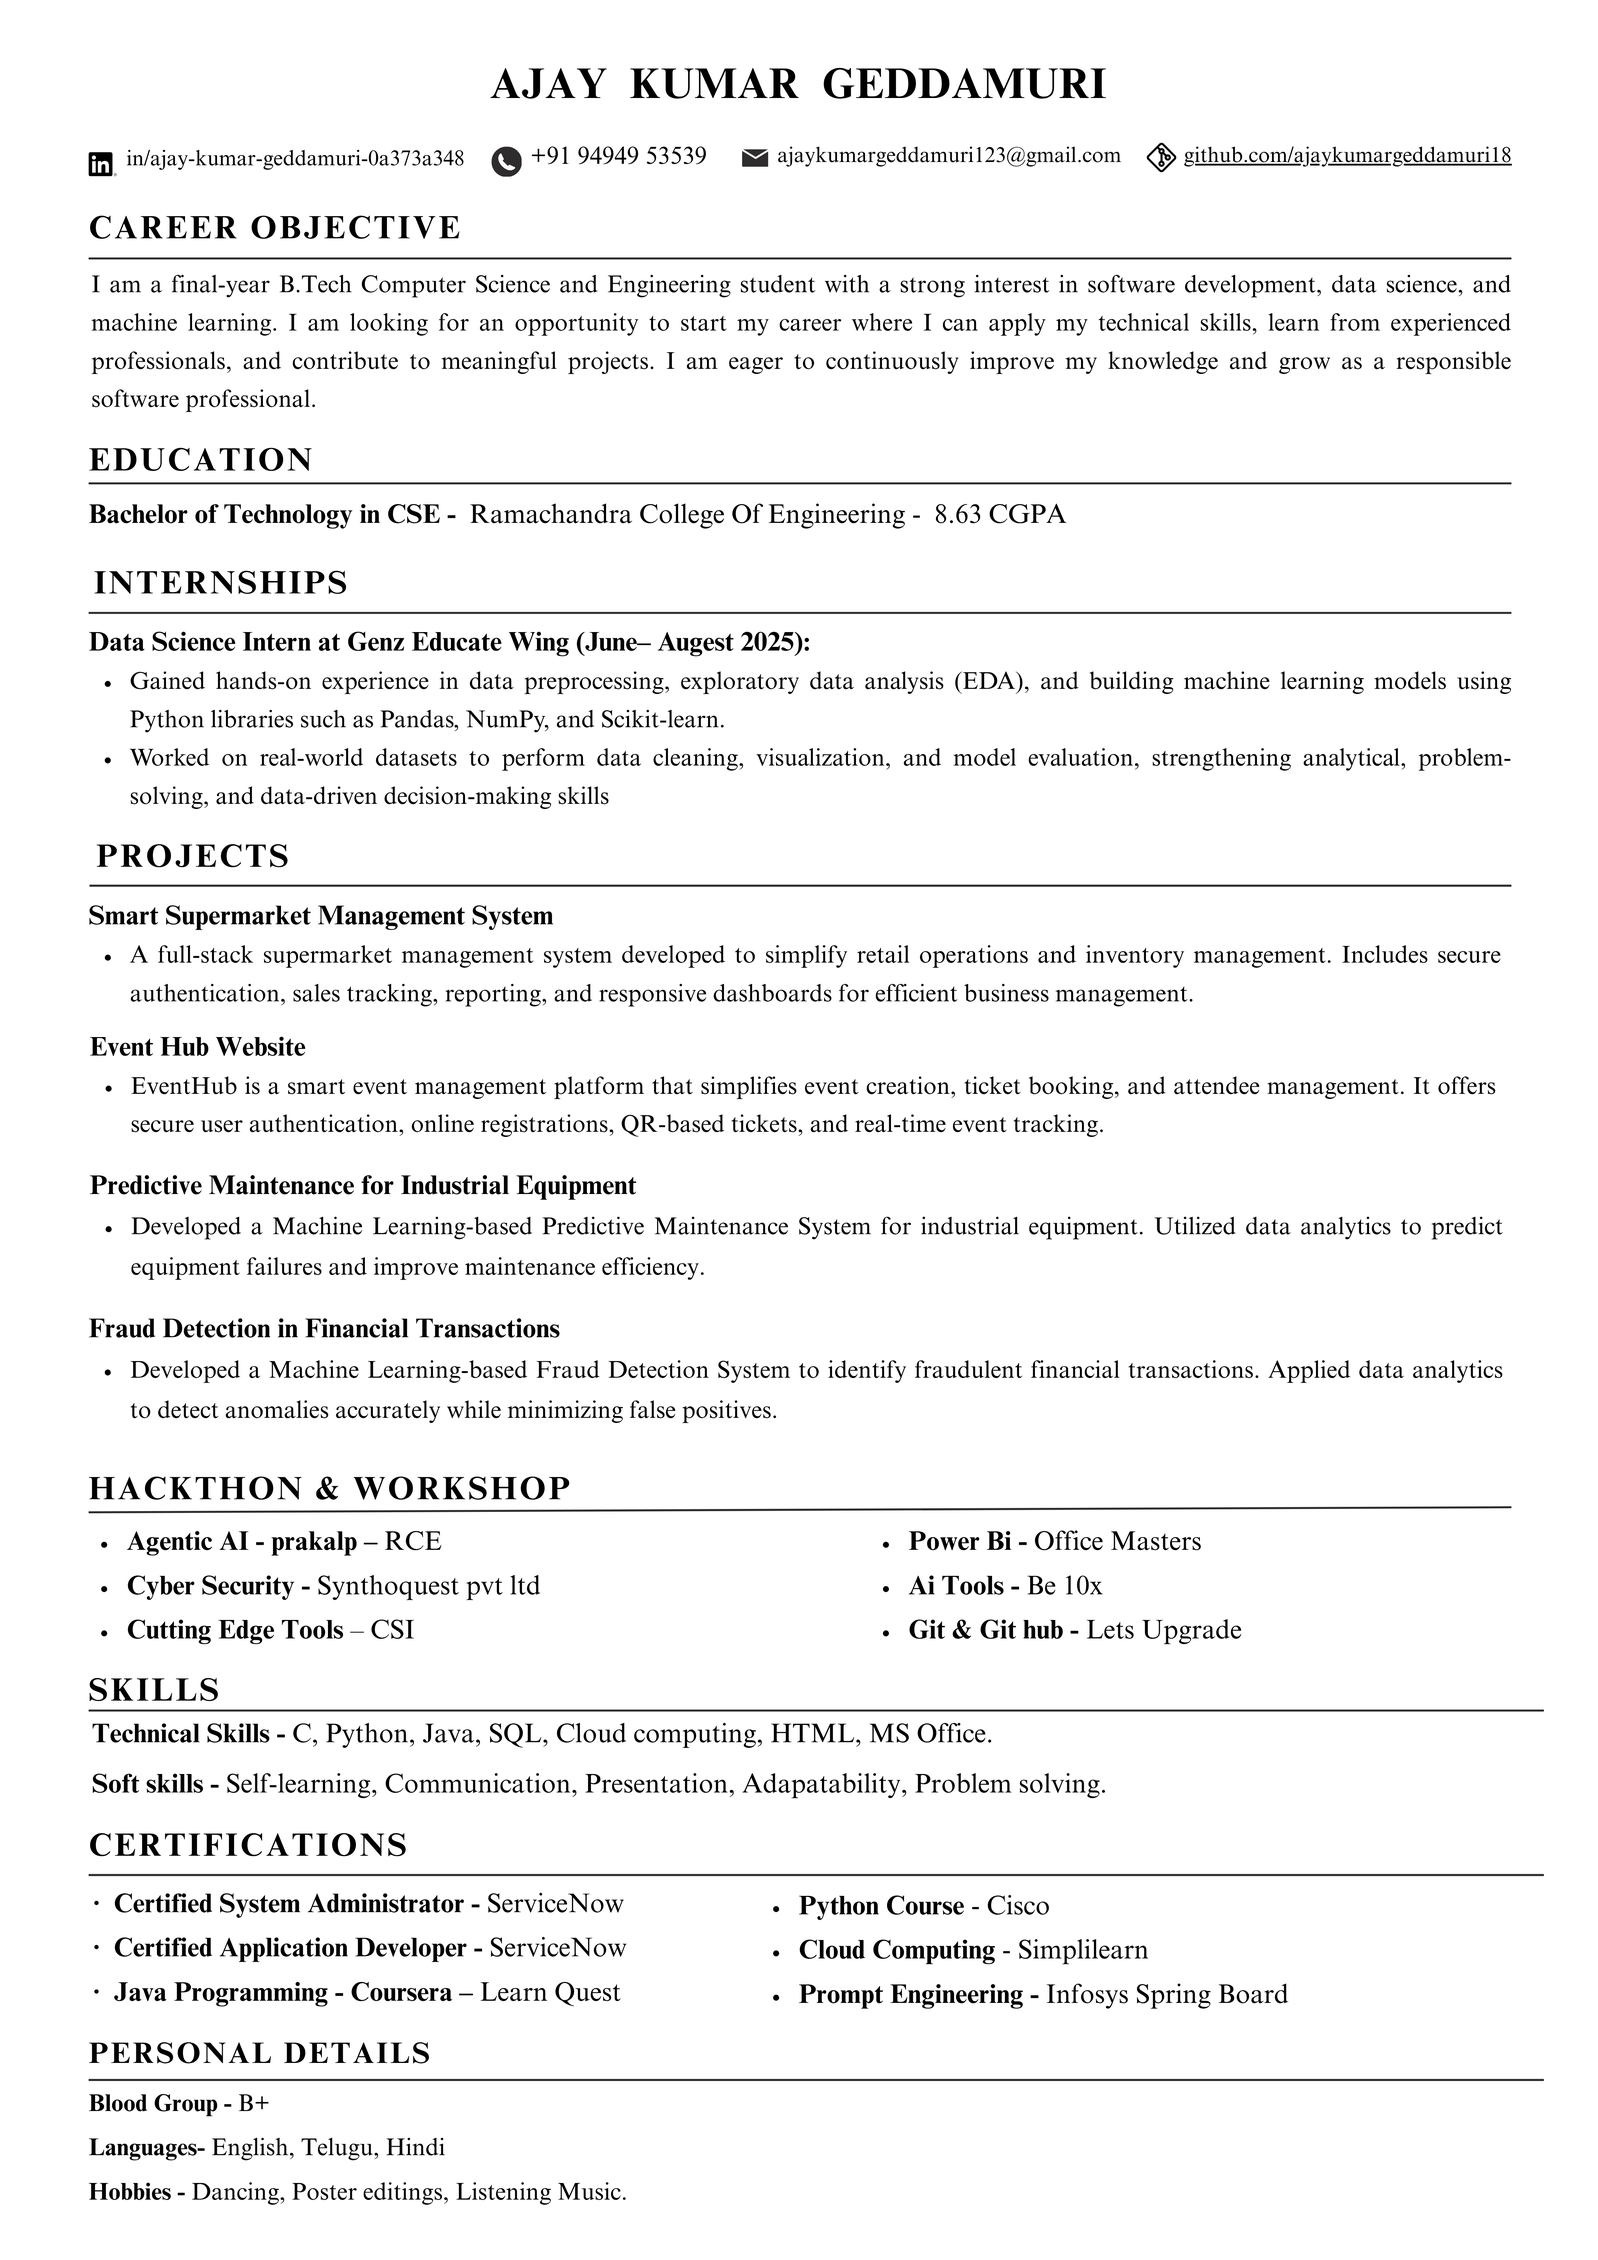
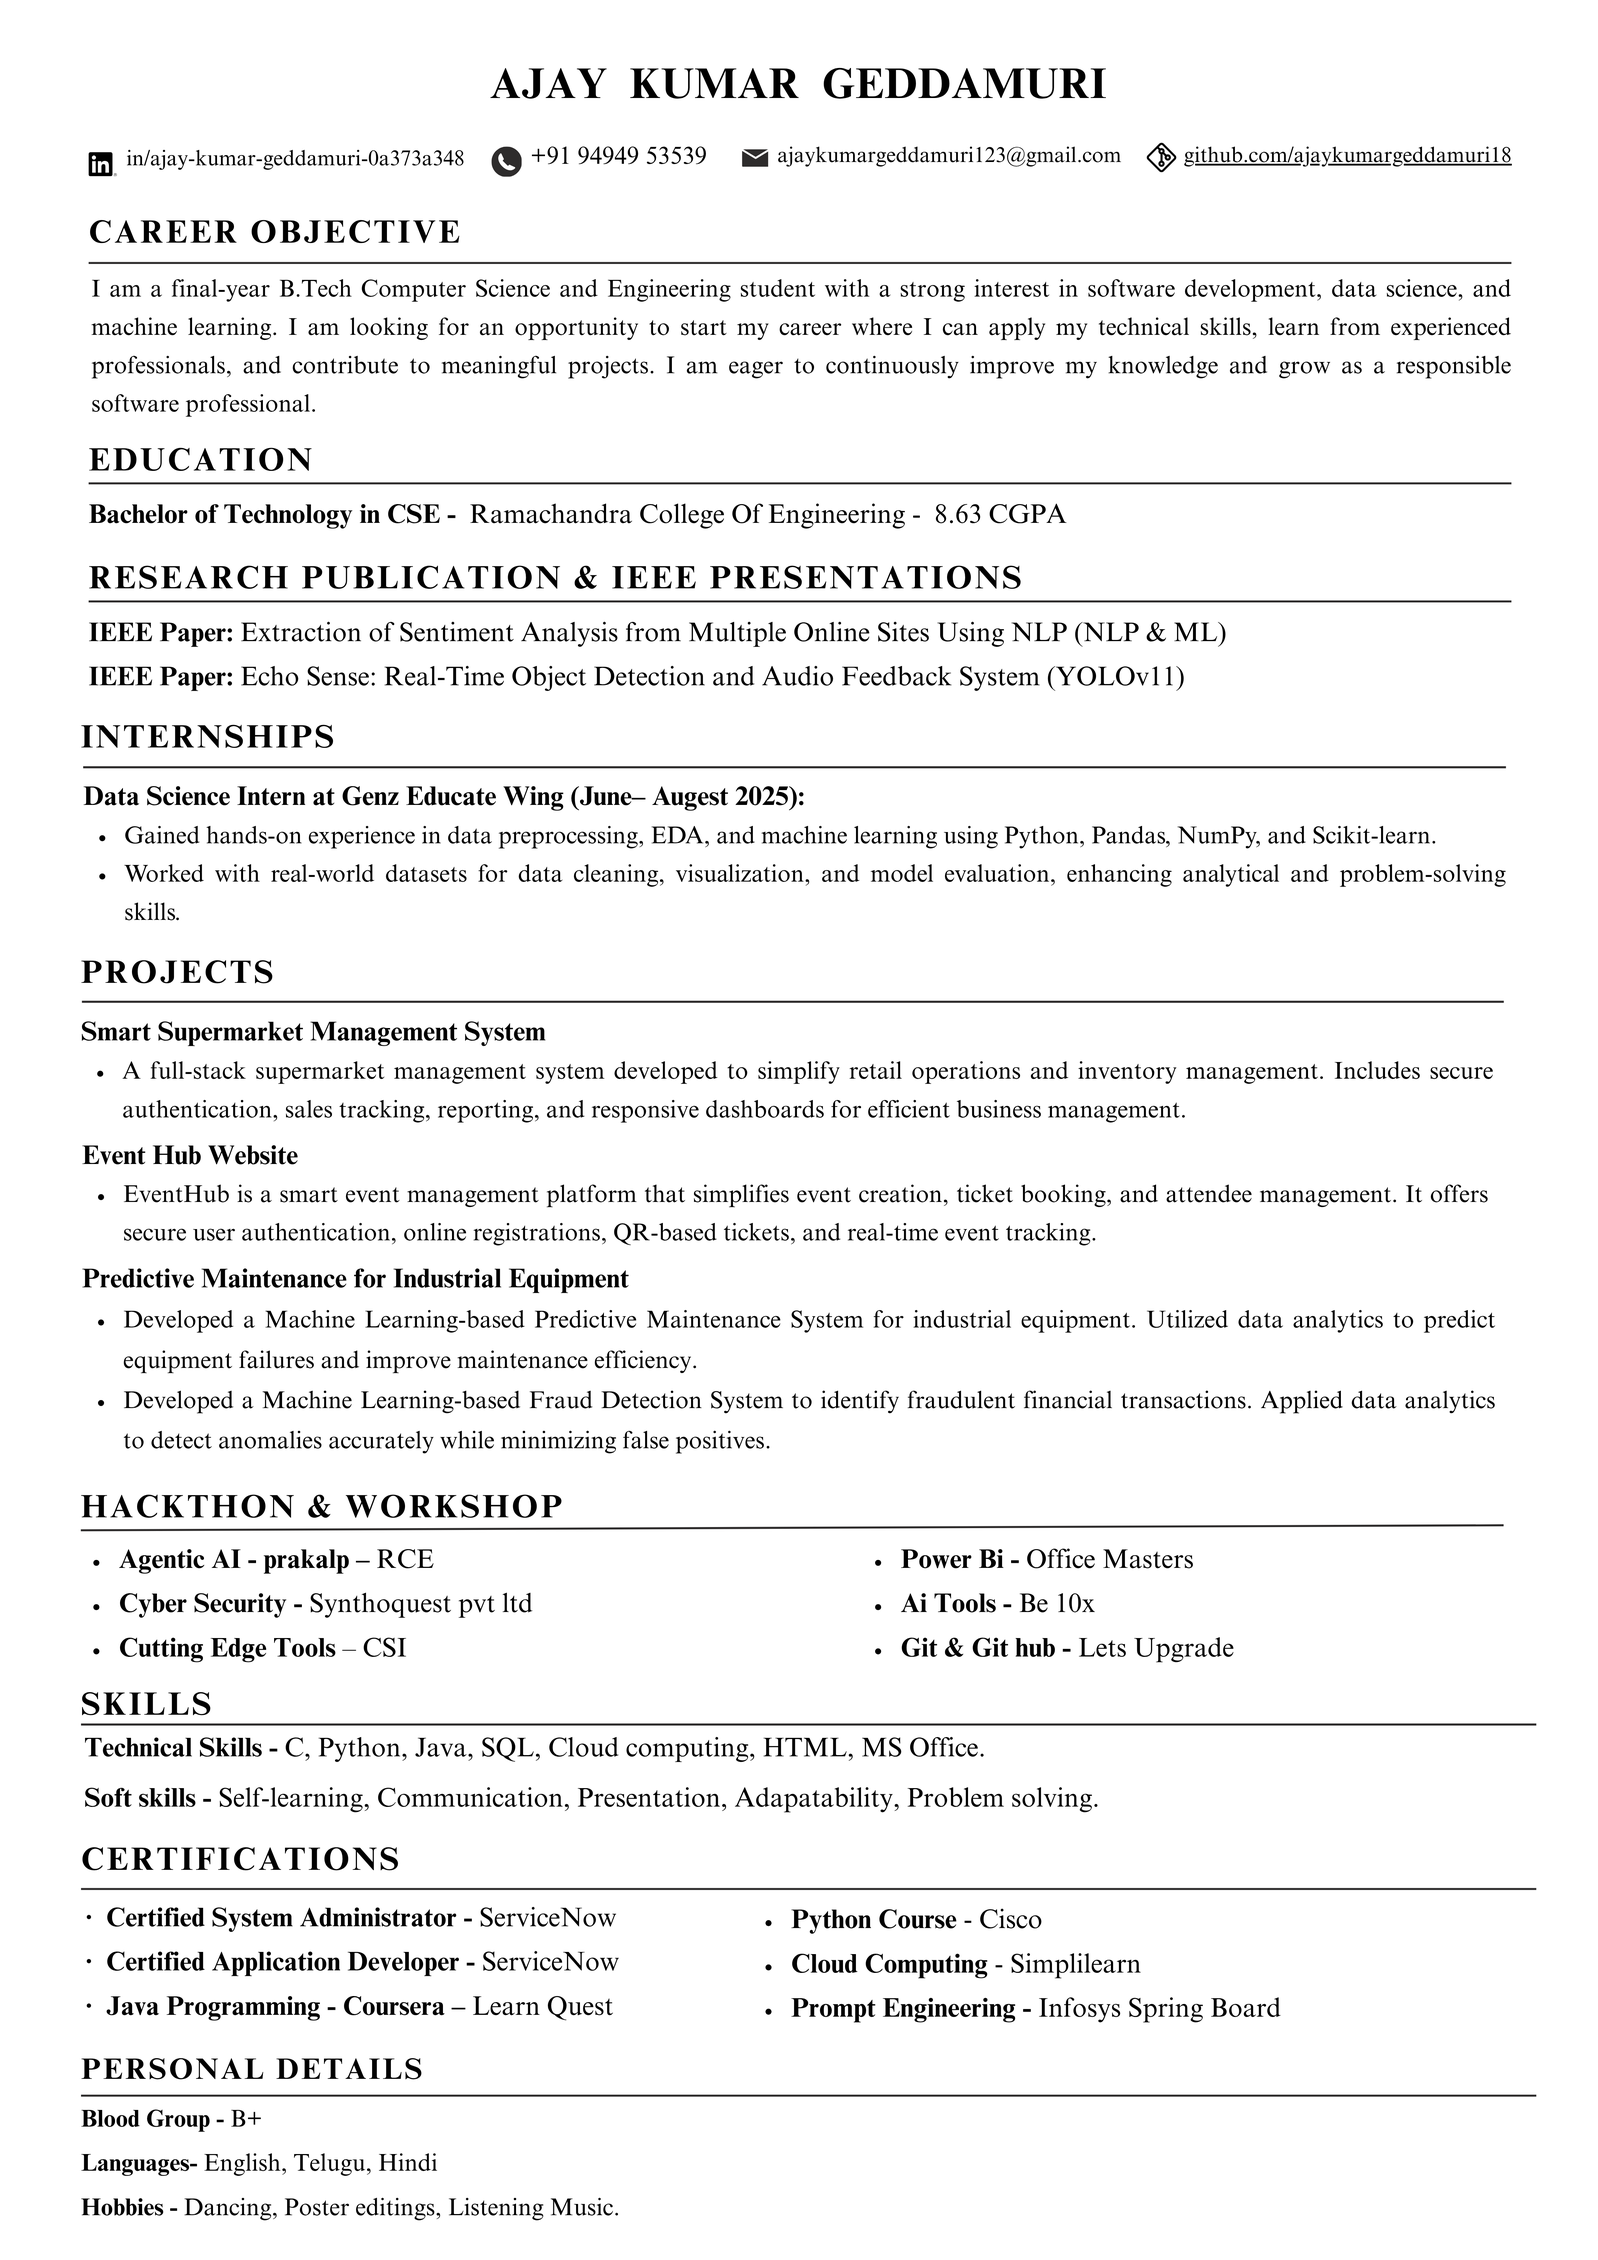
Link updated resume (Ajay_Resume.png) and IEEE Conference Certificate (336.png) with interactive modal viewer

diff --git a/script.js b/script.js
@@ -4,6 +4,17 @@
    ========================================================================== */
 
 const certificatesData = {
+  ieee_conference: {
+    title: "IEEE International Research Conference Certificate",
+    issuer: "1st International IEEE Conference Panel",
+    badgeIcon: "fa-solid fa-award",
+    date: "2025",
+    type: "Machine Learning & Predictive Modeling Paper Presentation",
+    details: "Official IEEE conference certification (336.png) awarded for presenting the research paper on Machine Learning algorithms, exploratory telemetry data analytics, and industrial anomaly detection.",
+    verifyId: "IEEE-CONF-2025-336",
+    pdfUrl: "/static/assets/336.png",
+    imageUrl: "/static/assets/336.png"
+  },
   servicenow_sysadmin: {
     title: "Certified System Administrator (CSA)",
     issuer: "ServiceNow",
@@ -80,15 +91,24 @@ window.openCertModal = function(key) {
     document.getElementById('cert-modal-title').textContent = cert.title;
     document.getElementById('cert-modal-issuer').textContent = `${cert.issuer} • ${cert.type}`;
 
-    const pdfButton = cert.pdfUrl ? `
-      <a href="${cert.pdfUrl}" target="_blank" rel="noopener noreferrer" class="btn btn-primary btn-sm" style="margin-right: 0.5rem; text-decoration: none;">
-        <i class="fa-solid fa-file-pdf"></i> Open Official Certificate PDF
+    const isImage = cert.imageUrl || (cert.pdfUrl && (cert.pdfUrl.endsWith('.png') || cert.pdfUrl.endsWith('.jpg')));
+    const actionUrl = cert.imageUrl || cert.pdfUrl;
+
+    const mediaButton = actionUrl ? `
+      <a href="${actionUrl}" target="_blank" rel="noopener noreferrer" class="btn btn-primary btn-sm" style="margin-right: 0.5rem; text-decoration: none;">
+        <i class="fa-solid ${isImage ? 'fa-image' : 'fa-file-pdf'}"></i> Open Official Certificate ${isImage ? 'Image' : 'PDF'}
       </a>
     ` : '';
 
+    const imagePreview = isImage ? `
+      <div style="background: #000; border-radius: var(--radius-md); overflow: hidden; border: 1px solid var(--border-glass); margin-bottom: 1.25rem; max-height: 380px; overflow-y: auto;">
+        <img src="${actionUrl}" alt="${cert.title}" style="width: 100%; display: block; object-fit: contain;">
+      </div>
+    ` : '';
+
     const bodyHtml = `
-      <div style="text-align: center; margin-bottom: 1.5rem;">
-        <div style="width: 80px; height: 80px; border-radius: 50%; background: rgba(0, 242, 254, 0.15); color: var(--cyan-electric); display: flex; align-items: center; justify-content: center; font-size: 2.5rem; margin: 0 auto 1rem auto; box-shadow: 0 0 25px rgba(0, 242, 254, 0.3);">
+      <div style="text-align: center; margin-bottom: 1.25rem;">
+        <div style="width: 70px; height: 70px; border-radius: 50%; background: rgba(0, 242, 254, 0.15); color: var(--cyan-electric); display: flex; align-items: center; justify-content: center; font-size: 2.2rem; margin: 0 auto 0.75rem auto; box-shadow: 0 0 25px rgba(0, 242, 254, 0.3);">
           <i class="${cert.badgeIcon}"></i>
         </div>
         <div style="font-size: 0.85rem; color: var(--emerald-neon); font-weight: 600; text-transform: uppercase; letter-spacing: 1px;">
@@ -96,18 +116,20 @@ window.openCertModal = function(key) {
         </div>
       </div>
 
-      <div style="background: var(--bg-surface); border: 1px solid var(--border-glass); border-radius: var(--radius-md); padding: 1.5rem; margin-bottom: 1.5rem;">
+      ${imagePreview}
+
+      <div style="background: var(--bg-surface); border: 1px solid var(--border-glass); border-radius: var(--radius-md); padding: 1.25rem; margin-bottom: 1.25rem;">
         <h4 style="font-size: 0.95rem; color: var(--text-main); margin-bottom: 0.5rem;">Credential Scope & Competencies:</h4>
-        <p style="font-size: 0.925rem; color: var(--text-muted); line-height: 1.6; margin-bottom: 1rem;">${cert.details}</p>
+        <p style="font-size: 0.9rem; color: var(--text-muted); line-height: 1.6; margin-bottom: 0.85rem;">${cert.details}</p>
         
-        <div style="display: flex; align-items: center; justify-content: space-between; padding-top: 0.75rem; border-top: 1px solid var(--border-glass); font-size: 0.85rem;">
+        <div style="display: flex; align-items: center; justify-content: space-between; padding-top: 0.75rem; border-top: 1px solid var(--border-glass); font-size: 0.825rem;">
           <span style="color: var(--text-subtle);">Credential ID: <strong style="color: var(--text-main);">${cert.verifyId}</strong></span>
           <span style="color: var(--text-subtle);">Issued: <strong style="color: var(--text-main);">${cert.date}</strong></span>
         </div>
       </div>
 
       <div style="text-align: center; display: flex; align-items: center; justify-content: center; gap: 0.5rem; flex-wrap: wrap;">
-        ${pdfButton}
+        ${mediaButton}
         <button class="btn btn-secondary btn-sm" onclick="showToast('Credential verification confirmed!')">
           <i class="fa-solid fa-shield-halved"></i> Verify Credential Status
         </button>

diff --git a/static/script.js b/static/script.js
@@ -4,6 +4,17 @@
    ========================================================================== */
 
 const certificatesData = {
+  ieee_conference: {
+    title: "IEEE International Research Conference Certificate",
+    issuer: "1st International IEEE Conference Panel",
+    badgeIcon: "fa-solid fa-award",
+    date: "2025",
+    type: "Machine Learning & Predictive Modeling Paper Presentation",
+    details: "Official IEEE conference certification (336.png) awarded for presenting the research paper on Machine Learning algorithms, exploratory telemetry data analytics, and industrial anomaly detection.",
+    verifyId: "IEEE-CONF-2025-336",
+    pdfUrl: "/static/assets/336.png",
+    imageUrl: "/static/assets/336.png"
+  },
   servicenow_sysadmin: {
     title: "Certified System Administrator (CSA)",
     issuer: "ServiceNow",
@@ -80,15 +91,24 @@ window.openCertModal = function(key) {
     document.getElementById('cert-modal-title').textContent = cert.title;
     document.getElementById('cert-modal-issuer').textContent = `${cert.issuer} • ${cert.type}`;
 
-    const pdfButton = cert.pdfUrl ? `
-      <a href="${cert.pdfUrl}" target="_blank" rel="noopener noreferrer" class="btn btn-primary btn-sm" style="margin-right: 0.5rem; text-decoration: none;">
-        <i class="fa-solid fa-file-pdf"></i> Open Official Certificate PDF
+    const isImage = cert.imageUrl || (cert.pdfUrl && (cert.pdfUrl.endsWith('.png') || cert.pdfUrl.endsWith('.jpg')));
+    const actionUrl = cert.imageUrl || cert.pdfUrl;
+
+    const mediaButton = actionUrl ? `
+      <a href="${actionUrl}" target="_blank" rel="noopener noreferrer" class="btn btn-primary btn-sm" style="margin-right: 0.5rem; text-decoration: none;">
+        <i class="fa-solid ${isImage ? 'fa-image' : 'fa-file-pdf'}"></i> Open Official Certificate ${isImage ? 'Image' : 'PDF'}
       </a>
     ` : '';
 
+    const imagePreview = isImage ? `
+      <div style="background: #000; border-radius: var(--radius-md); overflow: hidden; border: 1px solid var(--border-glass); margin-bottom: 1.25rem; max-height: 380px; overflow-y: auto;">
+        <img src="${actionUrl}" alt="${cert.title}" style="width: 100%; display: block; object-fit: contain;">
+      </div>
+    ` : '';
+
     const bodyHtml = `
-      <div style="text-align: center; margin-bottom: 1.5rem;">
-        <div style="width: 80px; height: 80px; border-radius: 50%; background: rgba(0, 242, 254, 0.15); color: var(--cyan-electric); display: flex; align-items: center; justify-content: center; font-size: 2.5rem; margin: 0 auto 1rem auto; box-shadow: 0 0 25px rgba(0, 242, 254, 0.3);">
+      <div style="text-align: center; margin-bottom: 1.25rem;">
+        <div style="width: 70px; height: 70px; border-radius: 50%; background: rgba(0, 242, 254, 0.15); color: var(--cyan-electric); display: flex; align-items: center; justify-content: center; font-size: 2.2rem; margin: 0 auto 0.75rem auto; box-shadow: 0 0 25px rgba(0, 242, 254, 0.3);">
           <i class="${cert.badgeIcon}"></i>
         </div>
         <div style="font-size: 0.85rem; color: var(--emerald-neon); font-weight: 600; text-transform: uppercase; letter-spacing: 1px;">
@@ -96,18 +116,20 @@ window.openCertModal = function(key) {
         </div>
       </div>
 
-      <div style="background: var(--bg-surface); border: 1px solid var(--border-glass); border-radius: var(--radius-md); padding: 1.5rem; margin-bottom: 1.5rem;">
+      ${imagePreview}
+
+      <div style="background: var(--bg-surface); border: 1px solid var(--border-glass); border-radius: var(--radius-md); padding: 1.25rem; margin-bottom: 1.25rem;">
         <h4 style="font-size: 0.95rem; color: var(--text-main); margin-bottom: 0.5rem;">Credential Scope & Competencies:</h4>
-        <p style="font-size: 0.925rem; color: var(--text-muted); line-height: 1.6; margin-bottom: 1rem;">${cert.details}</p>
+        <p style="font-size: 0.9rem; color: var(--text-muted); line-height: 1.6; margin-bottom: 0.85rem;">${cert.details}</p>
         
-        <div style="display: flex; align-items: center; justify-content: space-between; padding-top: 0.75rem; border-top: 1px solid var(--border-glass); font-size: 0.85rem;">
+        <div style="display: flex; align-items: center; justify-content: space-between; padding-top: 0.75rem; border-top: 1px solid var(--border-glass); font-size: 0.825rem;">
           <span style="color: var(--text-subtle);">Credential ID: <strong style="color: var(--text-main);">${cert.verifyId}</strong></span>
           <span style="color: var(--text-subtle);">Issued: <strong style="color: var(--text-main);">${cert.date}</strong></span>
         </div>
       </div>
 
       <div style="text-align: center; display: flex; align-items: center; justify-content: center; gap: 0.5rem; flex-wrap: wrap;">
-        ${pdfButton}
+        ${mediaButton}
         <button class="btn btn-secondary btn-sm" onclick="showToast('Credential verification confirmed!')">
           <i class="fa-solid fa-shield-halved"></i> Verify Credential Status
         </button>

diff --git a/index.html b/index.html
@@ -585,6 +585,15 @@
                 </div>
 
                 <div class="certs-grid-container">
+                    <div class="cert-card-clickable" onclick="openCertModal('ieee_conference')" style="border: 1px solid rgba(168, 85, 247, 0.45); background: rgba(168, 85, 247, 0.08);">
+                        <div class="cert-badge-icon" style="background: rgba(168, 85, 247, 0.2); color: #c084fc;"><i class="fa-solid fa-award"></i></div>
+                        <div>
+                            <h4 style="font-size: 1rem; color: var(--text-main);">IEEE International Research Paper Certificate</h4>
+                            <span style="font-size: 0.85rem; color: #c084fc; font-weight: 600;">1st International IEEE Conference • Official Certificate (336.png)</span>
+                        </div>
+                        <div class="cert-view-badge" style="border-color: rgba(168, 85, 247, 0.5); color: #c084fc;">View Image <i class="fa-solid fa-image"></i></div>
+                    </div>
+
                     <div class="cert-card-clickable" onclick="openCertModal('servicenow_sysadmin')">
                         <div class="cert-badge-icon"><i class="fa-solid fa-cloud-bolt"></i></div>
                         <div>

diff --git a/templates/index.html b/templates/index.html
@@ -585,6 +585,15 @@
                 </div>
 
                 <div class="certs-grid-container">
+                    <div class="cert-card-clickable" onclick="openCertModal('ieee_conference')" style="border: 1px solid rgba(168, 85, 247, 0.45); background: rgba(168, 85, 247, 0.08);">
+                        <div class="cert-badge-icon" style="background: rgba(168, 85, 247, 0.2); color: #c084fc;"><i class="fa-solid fa-award"></i></div>
+                        <div>
+                            <h4 style="font-size: 1rem; color: var(--text-main);">IEEE International Research Paper Certificate</h4>
+                            <span style="font-size: 0.85rem; color: #c084fc; font-weight: 600;">1st International IEEE Conference • Official Certificate (336.png)</span>
+                        </div>
+                        <div class="cert-view-badge" style="border-color: rgba(168, 85, 247, 0.5); color: #c084fc;">View Image <i class="fa-solid fa-image"></i></div>
+                    </div>
+
                     <div class="cert-card-clickable" onclick="openCertModal('servicenow_sysadmin')">
                         <div class="cert-badge-icon"><i class="fa-solid fa-cloud-bolt"></i></div>
                         <div>
